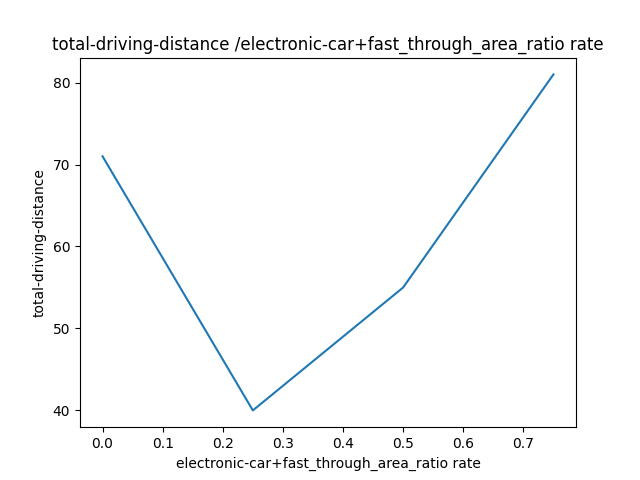
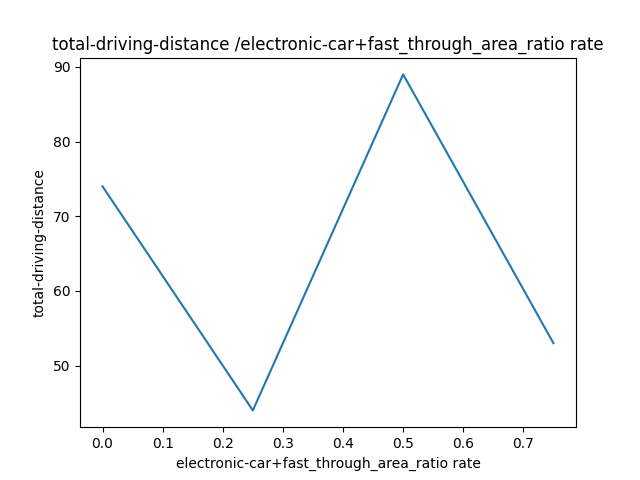
finish a16053

diff --git a/a16053_ca_simulate_transportII/i2simulator.py b/a16053_ca_simulate_transportII/i2simulator.py
@@ -154,13 +154,13 @@ def change_way(way, local, cell2, width, cell, road_2d_matrix):
             return 1
 
 
-def main():
+def main(visual_data=None):
     # show_img("resources/i1geographical_urban.jpg")
 
     # time.sleep(1)
 
     # show_simplify_to_path()
-
+    print('visual_data=', visual_data)
     length = 3
     width = 30
 
@@ -179,7 +179,10 @@ def main():
     leng = {0: 0, 1: 0, 2: 0, 3: 0}
     list1 = []
     # for i in range(0, 100):
-    for i in range(0, 4):
+    step = 100
+    mysum = sum(visual_data[0])
+    # print('@'*20, visual_data[0][0]/mysum)
+    for i in range(0, step):
         welcome = colored(
             "#" * 10 + " This turn of car_simulate_driving: " + str(i) + "#" * 10,
             "red",
@@ -190,16 +193,20 @@ def main():
         while True:
             if d % 4 == 0:
                 init_car_model(
-                    road_2d_matrix, leng, cell2, 0, i / 5, 0.3, fast_through_area_ratio
+                    road_2d_matrix, leng, cell2, 0, i / step, 0.3, visual_data[0][0]/mysum
                 )
                 # init_car_model(road_2d_matrix, leng, cell2,  0, i/100, 0.3)
             if d % 3 == 0:
                 init_car_model(
-                    road_2d_matrix, leng, cell2, 1, i / 5, 0.3, fast_through_area_ratio
+                    road_2d_matrix, leng, cell2, 1, i / step, 0.3, visual_data[0][1]/mysum
                 )
             if d % 5 == 0:
                 init_car_model(
-                    road_2d_matrix, leng, cell2, 2, i / 5, 0.3, fast_through_area_ratio
+                    road_2d_matrix, leng, cell2, 2, i / step, 0.3, visual_data[0][2]/mysum
+                )
+            if d % 7 == 0:
+                init_car_model(
+                    road_2d_matrix, leng, cell2, 2, i / step, 0.3, visual_data[0][3]/mysum
                 )
             cell = copy.deepcopy(road_2d_matrix)
             # 显示每一轮的图像
@@ -238,7 +245,7 @@ def main():
     # plt.show(block=False)
     # plt.pause(0.2)
 
-    x = np.arange(0, 1, 0.25)
+    x = np.arange(0, 1, 1/step)
     y = list1
     print("x=", x)
 

diff --git a/a16053_ca_simulate_transportII/i1simulate_path_with_citymap.py b/a16053_ca_simulate_transportII/i1simulate_path_with_citymap.py
@@ -12,8 +12,9 @@ import seaborn as sns
 
 from mygrid import Grid
 from my_unittype import unit_types, inners, parkings
-from car_setting import CarSetting
+from car_district_setting import CarSetting
 from visualization import visulize_to_png, show_img, show_simplify_to_path
+import i2simulator 
 
 
 def mycar_walking(start, end, generated_map=[]):
@@ -168,8 +169,8 @@ def visual_to_png(res):
     # plt.yticks(rotation=0,fontsize=16);
     # plt.xticks(fontsize=12);
     # plt.tight_layout()
-    plt.title('Heatmap of citytype vs mycar-type', fontsize = 20) # title with fontsize 20
-    plt.xlabel('mycar-type', fontsize = 15) # x-axis label with fontsize 15
+    plt.title('Heatmap of citytype vs car-district-type', fontsize = 20) # title with fontsize 20
+    plt.xlabel('car-district-type', fontsize = 15) # x-axis label with fontsize 15
     plt.ylabel('citytype', fontsize = 15) # y-axis label with fontsize 1
     plt.savefig('i1colorlist.png')
 
@@ -185,10 +186,10 @@ def main():
 
     mycarly_types = [None, None, None, None]
 
-    mycarly_types[0] = int(simulate_num * 0.25)
-    mycarly_types[1] = int(simulate_num * 0.25)
-    mycarly_types[2] = int(simulate_num * 0.25)
-    mycarly_types[3] = int(simulate_num * 0.25)
+    mycarly_types[0] = int(simulate_num * 0.35)
+    mycarly_types[1] = int(simulate_num * 0.30)
+    mycarly_types[2] = int(simulate_num * 0.20)
+    mycarly_types[3] = int(simulate_num * 0.15)
 
     print('mycarly_types=', mycarly_types)
     mydict = {}
@@ -203,7 +204,7 @@ def main():
             for j in range(mycarly_types[mycarly_type]):
                 score = single_turn(i, generated_map, car_setting)
                 scores.append(score)
-                # time.sleep(random.uniform(0.1, 0.5))
+                time.sleep(random.uniform(0.1, 0.8))
             mydict[i, mycarly_type] = scores
 
     print('\n'*3)
@@ -225,7 +226,7 @@ def main():
             # time.sleep(random.uniform(0.1, 0.5))
         visual_data.append(type_data)
     visual_to_png(visual_data)
-
+    i2simulator.main(visual_data)
 
 
 if __name__ == "__main__":

diff --git a/a16053_ca_simulate_transportII/car_model.py b/a16053_ca_simulate_transportII/car_model.py
@@ -1,5 +1,5 @@
 import random
-
+from car_district_setting import *
 
 def init_car_model(
     road_2d_matrix, leng, cell2, way, tesla_rate, car_p, fast_through_area_ratio
